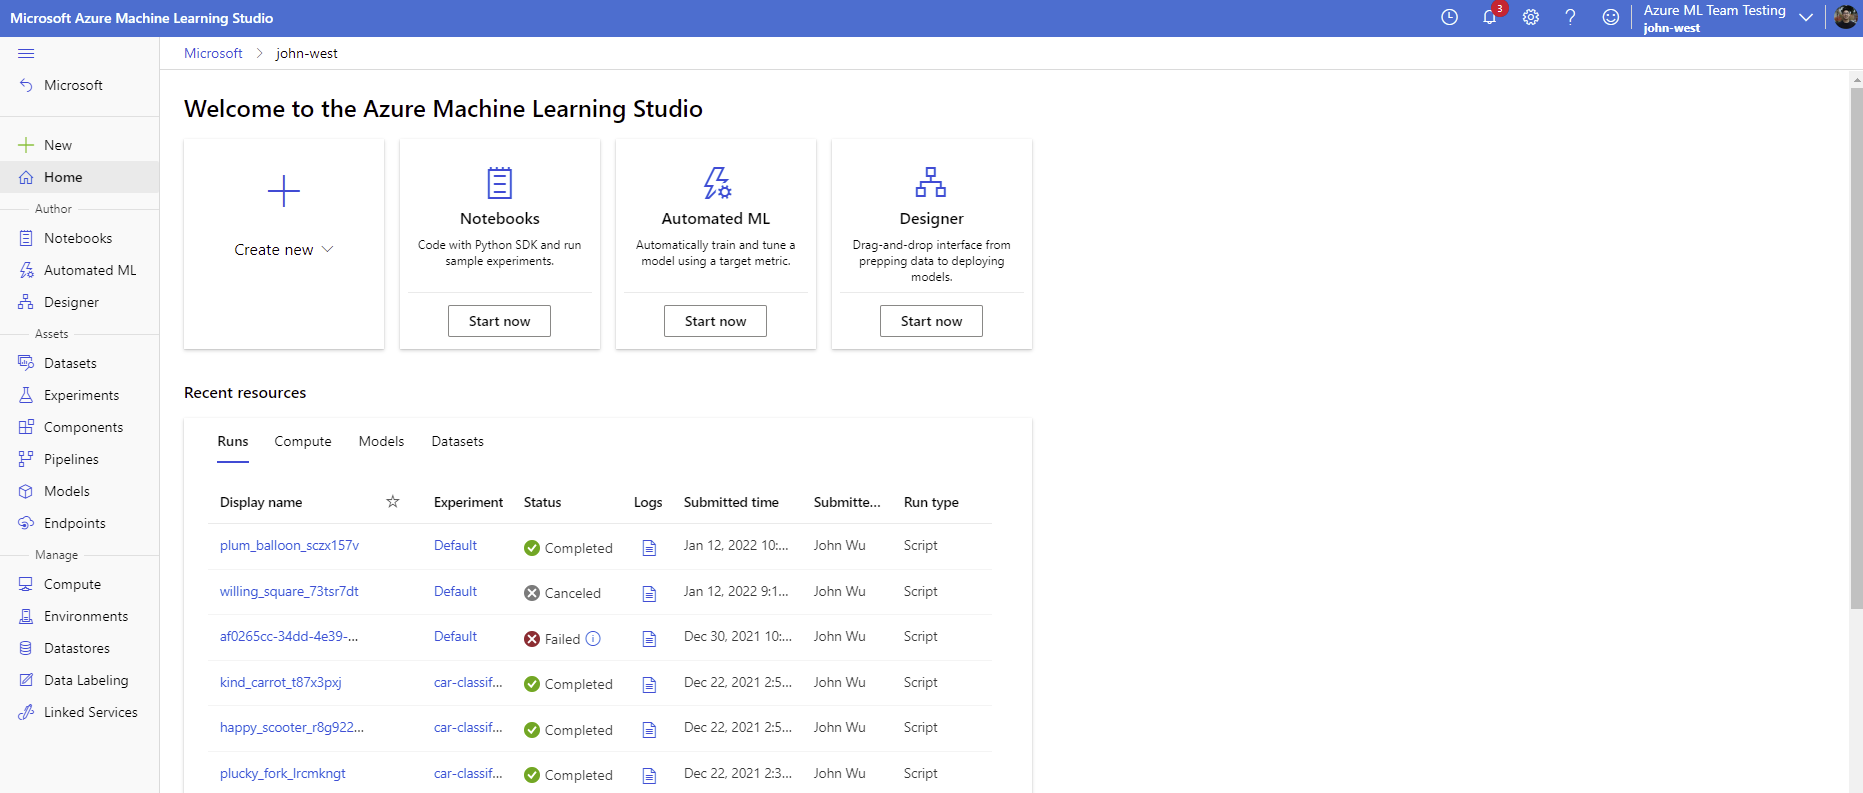
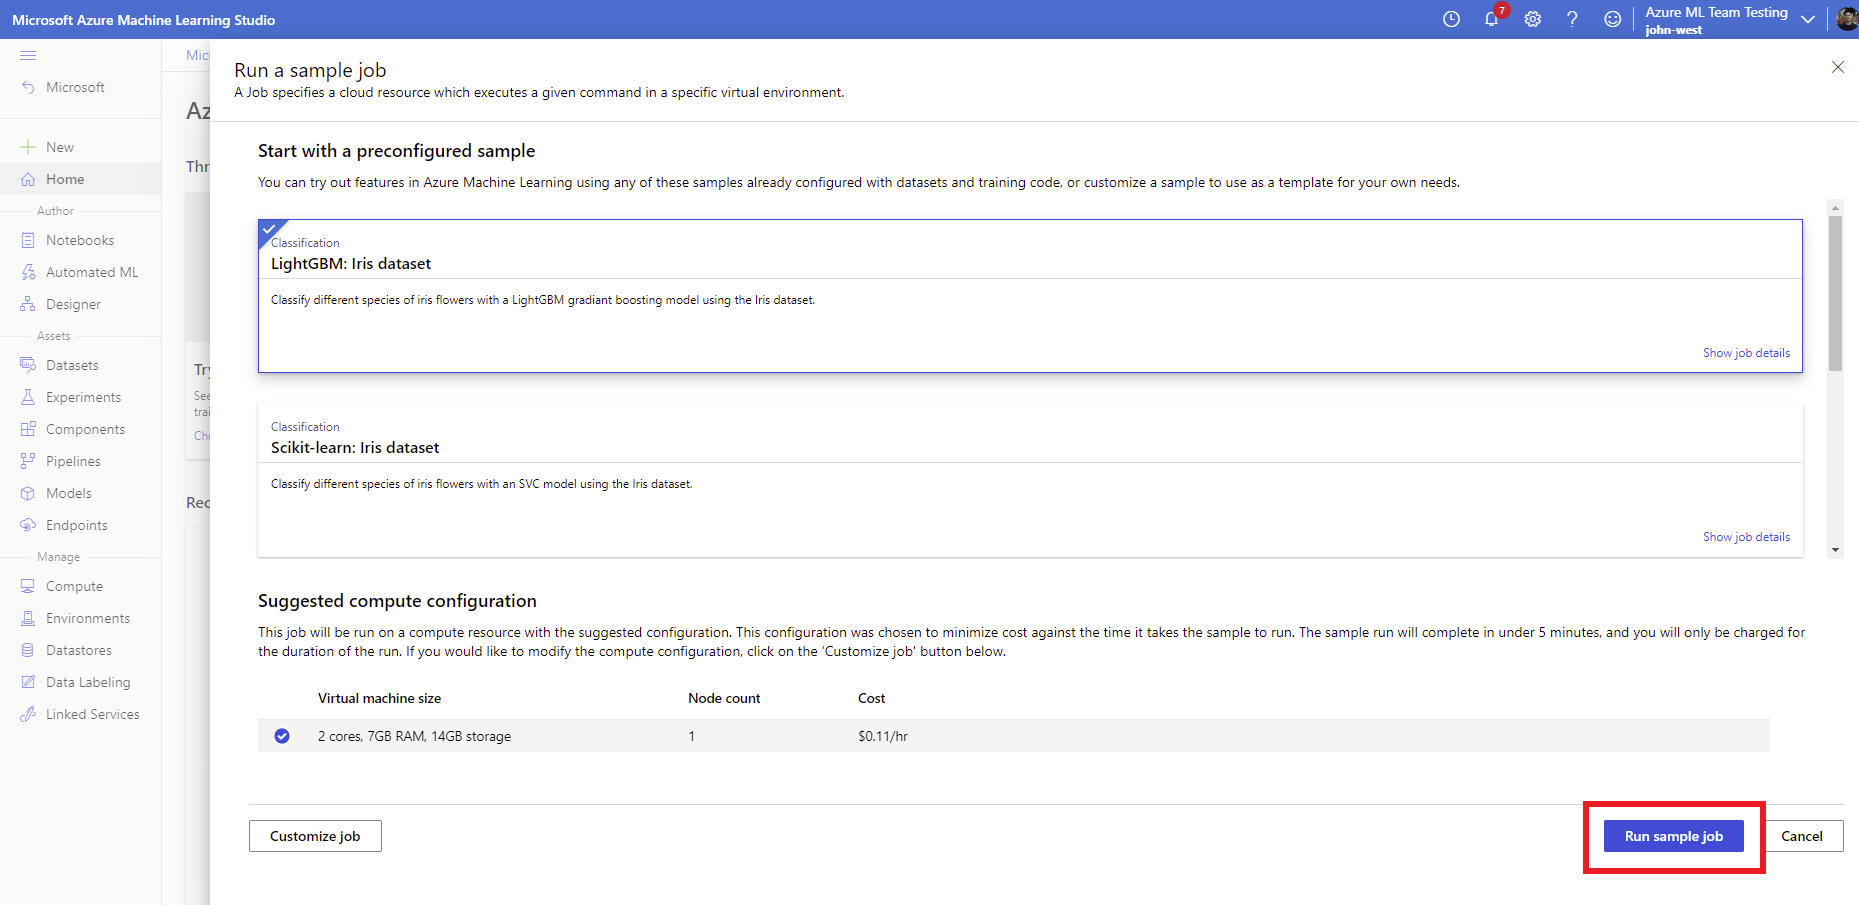
Updated with 5MTW scenario

diff --git a/README.md b/README.md
@@ -7,37 +7,49 @@ To join the private preview, please fill out this [form](#).
 
 ## How to use the feature
 
-For your convenience, this repository includes a training script that can be used as a sample to run the job. Steps `4-5` are defaulted to use the provided training script. If using a customized script, make sure to fill out the parameters accordingly based on your scenario.
+### Submit a sample job 
 
-1. Navigate to the [Azure ML Studio UI](https://master.ml.azure.com/?wsid=/subscriptions/4aaa645c-5ae2-4ae9-a17a-84b9023bc56a/resourceGroups/john/providers/Microsoft.MachineLearningServices/workspaces/john-west&flight=ClusterlessCompute,clusterlessComputeRun&tid=72f988bf-86f1-41af-91ab-2d7cd011db47).
+1. Navigate to the [Azure ML Studio UI](https://master.ml.azure.com/?wsid=/subscriptions/4aaa645c-5ae2-4ae9-a17a-84b9023bc56a/resourceGroups/john/providers/Microsoft.MachineLearningServices/workspaces/john-west&flight=clusterlesscompute,clusterlesscomputeruns,aml5minstowow&tid=72f988bf-86f1-41af-91ab-2d7cd011db47) and click on the `Try it out` card.
+
+![alt text](./img/11.png)
+
+2. Review the configuration and click `Run sample job`
 
 ![alt text](./img/1.png)
 
-2. From the top left corner, click on `+ New` and then followed by `Job (preview)`.
+3. Wait for the job to queue, and then it should complete in ~5 minutes.
 
-![alt text](./img/2.png)
+![alt text](./img/10.png)
 
-3. Make sure that `Automatic (Preview)` is selected as the compute type. Select your compute requirements and click `Next`.
+### Submit a job using a custom script 
+
+For your convenience, this repository includes a training script that can be used as an example to run the job. Steps `3-4` are defaulted to use the provided training script. If using your own code, make sure to fill out the parameters accordingly based on your scenario.
+
+1. Navigate to the [Azure ML Studio UI](https://master.ml.azure.com/?wsid=/subscriptions/4aaa645c-5ae2-4ae9-a17a-84b9023bc56a/resourceGroups/john/providers/Microsoft.MachineLearningServices/workspaces/john-west&flight=clusterlesscompute,clusterlesscomputeruns,aml5minstowow&tid=72f988bf-86f1-41af-91ab-2d7cd011db47) and click on the `Train your own model` card.
+
+![alt text](./img/12.png)
+
+2. Make sure that `Automatic (Preview)` is selected as the compute type. Select your compute requirements and click `Next`.
 
 ![alt text](./img/3.png)
 
-4. Select the `TensorFlow 2.4` environment and click `Next`
+3. Select the `TensorFlow 2.4` environment and click `Next`
 
 ![alt text](./img/4.png)
 
-5. Upload the attached `train.py` file, enter `python train.py` as the start command, and click `Next`.
+4. Upload the attached `train.py` file, enter `python train.py` as the start command, and click `Next`.
 
 ![alt text](./img/5.png)
 
-6. Review your settings and click `Create`
+5. Review your settings and click `Create`
 
 ![alt text](./img/6.png)
 
-7. Wait for the job to prepare. This may take a couple minutes if a job has not been submitted for awhile.
+6. Wait for the job to prepare. This may take a couple minutes if a job has not been submitted for awhile.
 
 ![alt text](./img/7.png)
 
-8. Once the job starts, you should be able to see metrics, logs, and monitoring information like with any other Azure ML job.
+7. Once the job starts, you should be able to see metrics, logs, and monitoring information like with any other Azure ML job.
 
 ![alt text](./img/8.png)
 
